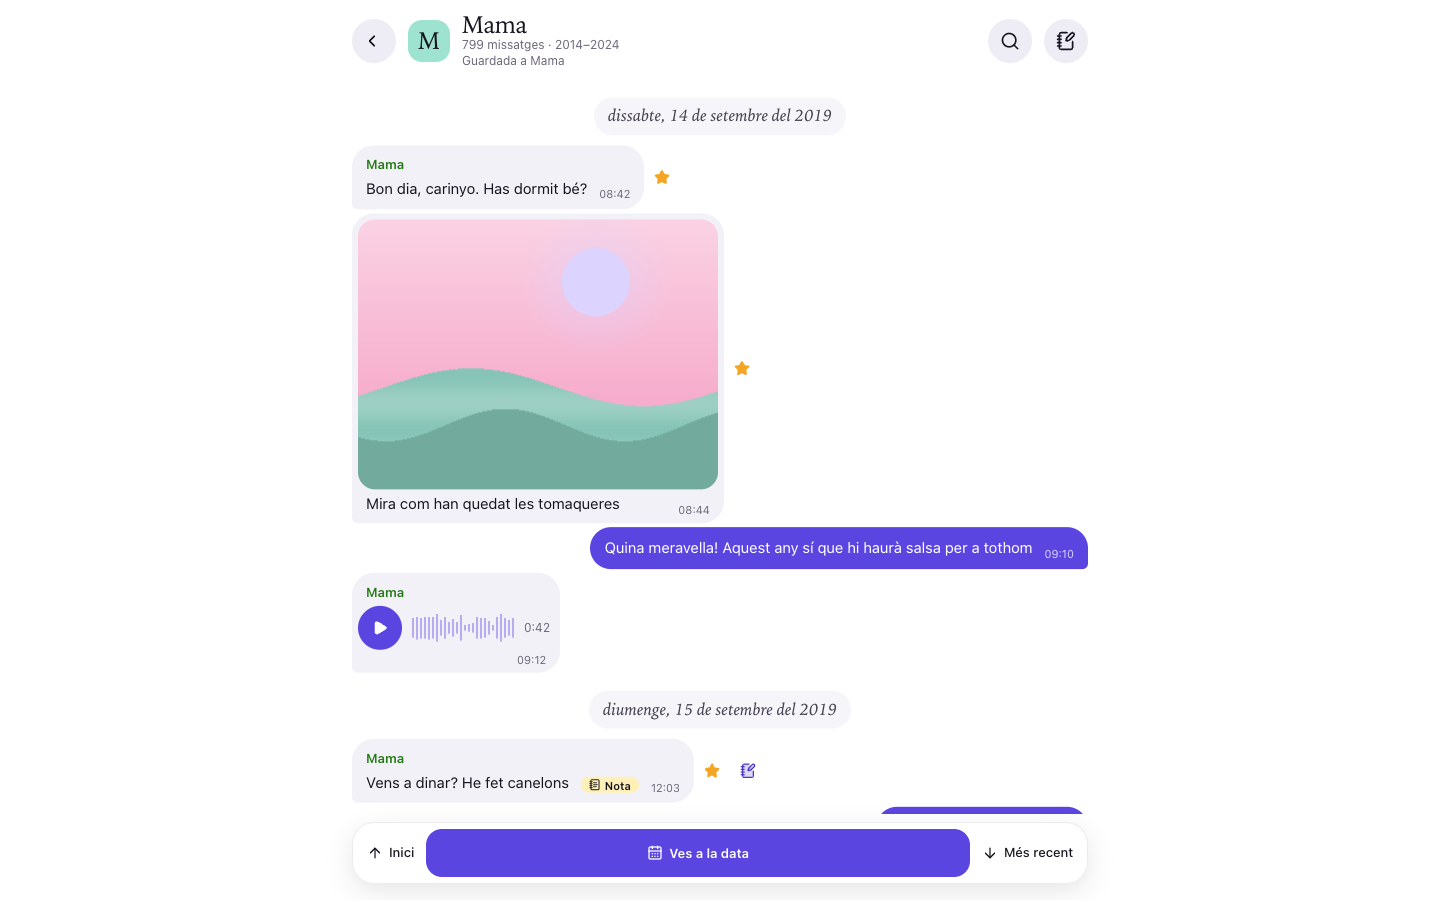
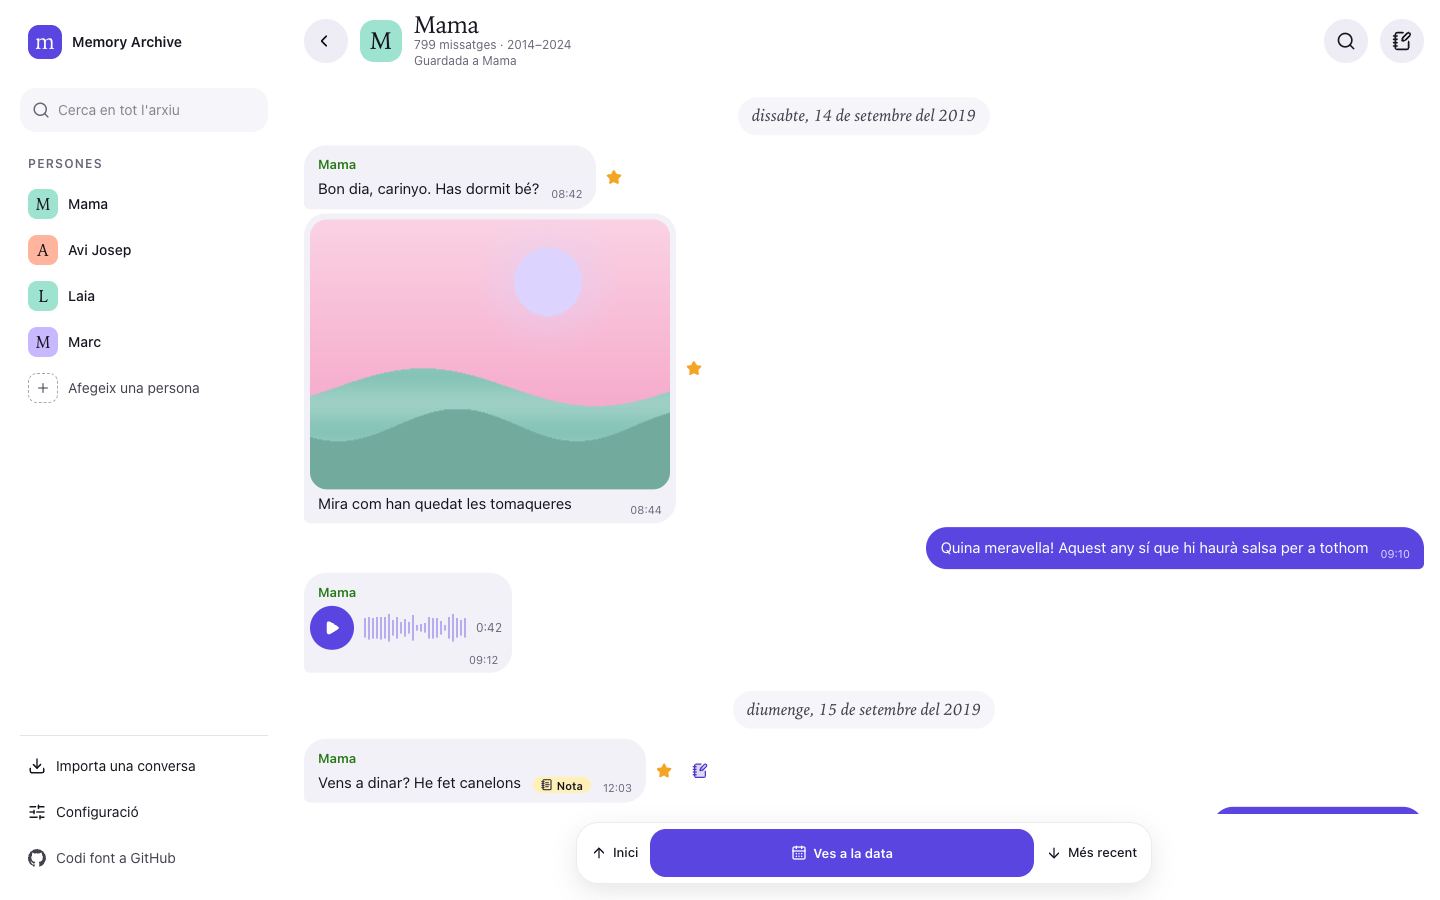
release: v0.4.1 (#65)
Release v0.4.1: full-width desktop layout with the sidebar on every
screen, import history goes back to where it was opened from, and
release commits on main are cleaned of co-author trailers automatically
(#63).

🤖 Generated with [Claude Code](https://claude.com/claude-code)

diff --git a/e2e/history.spec.ts b/e2e/history.spec.ts
@@ -56,7 +56,7 @@ test('the same ZIP twice adds nothing: one entry in the history, and the counts 
   expect(await overflowsHorizontally(page)).toBe(false);
 
   // The same file again, from the history's own way back into the wizard.
-  await page.getByRole('link', { name: 'Back to People' }).click();
+  await page.getByRole('link', { name: 'Back to Import' }).click();
   await importFromPeople(page, exportZip(), 'Mama', 'Finish without adding anything');
   await expect(page.getByText('No new messages were added to Mama.')).toBeVisible();
   await seeHistory(page);
@@ -65,7 +65,8 @@ test('the same ZIP twice adds nothing: one entry in the history, and the counts 
   await expect(entry.getByText('4 new messages added.')).toBeVisible();
 
   // People and the person's page: still one conversation with 4 messages.
-  await page.getByRole('link', { name: 'Back to People' }).click();
+  await page.getByRole('link', { name: 'Back to Import' }).click();
+  await page.goto('/en/people/');
   await expect(page.getByText(/1 conversation/)).toBeVisible();
   await page.getByRole('main').getByRole('link', { name: 'Mama', exact: true }).click();
   await expect(page.getByRole('list', { name: 'Conversations' }).getByRole('listitem')).toHaveCount(1);
@@ -129,7 +130,8 @@ test('undo from the history removes that import: its messages and the conversati
   await expect(page.getByRole('heading', { level: 2, name: 'Nothing has been imported yet' })).toBeVisible();
   await expect(page.getByRole('heading', { level: 1, name: 'Import history' })).toBeFocused();
 
-  await page.getByRole('link', { name: 'Back to People' }).click();
+  await page.getByRole('link', { name: 'Back to Import' }).click();
+  await page.goto('/en/people/');
   await expect(page.getByRole('list', { name: 'People' }).getByText('No conversations yet')).toBeVisible();
 });
 
@@ -140,6 +142,9 @@ test('Catalan: the history and its empty state are in Catalan, and the settings 
   await expect(page.getByRole('heading', { level: 1, name: 'Historial d’importacions' })).toBeVisible();
   await expect(page.getByRole('heading', { level: 2, name: 'Encara no s’ha importat res' })).toBeVisible();
   expect(await overflowsHorizontally(page)).toBe(false);
+  // Opened from Settings, the way back is to Settings.
+  await page.getByRole('link', { name: 'Torna a Configuració' }).click();
+  await expect(page).toHaveURL(/\/ca\/settings\/$/);
 });
 
 // ── Phase 4: closing the tab in the middle of an import leaves the archive intact ─────────────

diff --git a/components/screen-shell.tsx b/components/screen-shell.tsx
@@ -15,7 +15,7 @@ import { isTopLevel } from './nav-items';
  * - Phones and tablets: top-level screens (People, Search, Import, Settings) get the floating tab
  *   bar; a sub-screen passes `back` and gets a back pill instead (`back.label` defaults to "Back").
  * - Desktop (from `lg`): the sidebar on the left for all of them, and the content in a rounded
- *   `sf` panel (max 1040 px).
+ *   `sf` panel that fills the rest of the window.
  * The polite status region lives here, in every state of a screen, so a message set while a form
  * closes is announced by a region that was already on screen.
  */
@@ -42,7 +42,7 @@ export function Shell({
           data-panel
           className={cn(
             'mx-auto flex w-full max-w-3xl flex-col gap-5 px-5 pt-8 sm:px-6 sm:pt-12',
-            'lg:bg-sf lg:mx-0 lg:min-h-[calc(100dvh-2.5rem)] lg:max-w-[1040px] lg:gap-6 lg:rounded-[32px] lg:p-12',
+            'lg:bg-sf lg:mx-0 lg:min-h-[calc(100dvh-2.5rem)] lg:max-w-none lg:gap-6 lg:rounded-[32px] lg:p-12',
             // Room under the content for the floating tab bar.
             focused ? 'pb-0 lg:pb-12' : topLevel ? 'pb-32' : 'pb-16',
           )}
@@ -60,6 +60,19 @@ export function Shell({
         </main>
       </div>
       {topLevel && <TabBar />}
+    </div>
+  );
+}
+
+/**
+ * The frame of a full-height screen with its own scrolling feed (a conversation, a timeline): a
+ * single column on phones, and on desktop the sidebar plus the feed filling the rest of the window.
+ */
+export function FeedShell({ children }: { children: ReactNode }) {
+  return (
+    <div className="lg:flex">
+      <Sidebar />
+      <div className="mx-auto flex h-dvh w-full max-w-3xl min-w-0 flex-col lg:mx-0 lg:max-w-none lg:flex-1">{children}</div>
     </div>
   );
 }

diff --git a/scripts/clean-release-message.test.ts b/scripts/clean-release-message.test.ts
@@ -1,0 +1,35 @@
+import { describe, expect, test } from 'vitest';
+import { cleanReleaseMessage } from './clean-release-message.mjs';
+
+describe('clean-release-message', () => {
+  test('drops the block GitHub appends on a web squash-merge, with its co-authors', () => {
+    const merged = [
+      'release: v0.4.0 (#62)',
+      '',
+      'Release v0.4.0: the app redesign.',
+      '',
+      '---------',
+      '',
+      'Co-authored-by: Someone <someone@example.com>',
+      'Co-authored-by: github-actions[bot] <41898282+github-actions[bot]@users.noreply.github.com>',
+      '',
+    ].join('\n');
+    expect(cleanReleaseMessage(merged)).toBe('release: v0.4.0 (#62)\n\nRelease v0.4.0: the app redesign.\n');
+  });
+
+  test('drops co-author trailers even without the separator, in any case', () => {
+    const msg = 'release: v1.0.0 (#9)\n\nBody.\n\nCo-Authored-By: A <a@example.com>\nco-authored-by: B <b@example.com>\n';
+    expect(cleanReleaseMessage(msg)).toBe('release: v1.0.0 (#9)\n\nBody.\n');
+  });
+
+  test('a clean message comes back unchanged', () => {
+    const msg = 'release: v0.3.0 (#58)\n\nShort body.\n';
+    expect(cleanReleaseMessage(msg)).toBe(msg);
+    expect(cleanReleaseMessage('release: v0.3.0')).toBe('release: v0.3.0\n');
+  });
+
+  test('keeps a dash line that is not exactly the nine-dash separator', () => {
+    const msg = 'release: v0.5.0 (#70)\n\n- a list item\n----\nend\n';
+    expect(cleanReleaseMessage(msg)).toBe(msg);
+  });
+});

diff --git a/components/conversation-screen.tsx b/components/conversation-screen.tsx
@@ -12,7 +12,7 @@ import { PageTitle } from '@/components/page-title';
 import { PersonAvatar } from '@/components/person-avatar';
 import { PillButton } from '@/components/pill-button';
 import { SectionCard } from '@/components/section-card';
-import { Shell } from '@/components/screen-shell';
+import { FeedShell, Shell } from '@/components/screen-shell';
 import { isDateParam, useConversation, type OpenConversation } from '@/hooks/use-conversation';
 import { useLibrary, useLibraryDeps } from '@/hooks/use-library';
 import { Link } from '@/i18n/navigation';
@@ -90,7 +90,7 @@ function ConversationContent({ onRetry }: { onRetry: () => void }) {
   const backLabel = back ? t('back', { name: back.name }) : tn('tabs.people');
 
   return (
-    <div className="mx-auto flex h-dvh w-full max-w-3xl flex-col">
+    <FeedShell>
       <header className="bg-bg z-20 flex shrink-0 flex-wrap items-center gap-3 px-4 pt-[max(0.75rem,env(safe-area-inset-top))] pb-3">
         <BackPill href={backHref} className="size-11 shrink-0 justify-center p-0">
           <span className="sr-only">{backLabel}</span>
@@ -123,7 +123,7 @@ function ConversationContent({ onRetry }: { onRetry: () => void }) {
         <ConversationNote key={view.conversation.id} conversationId={view.conversation.id} />
       </header>
       <ConversationFeed key={view.conversation.id} conversation={conversation} />
-    </div>
+    </FeedShell>
   );
 }
 

diff --git a/components/person-timeline-screen.tsx b/components/person-timeline-screen.tsx
@@ -9,7 +9,7 @@ import { BackPill } from '@/components/back-pill';
 import { Eyebrow } from '@/components/eyebrow';
 import { usePeopleBack, usePersonBack } from '@/components/person-back';
 import { EmptyNote, ErrorNote, LoadingNote, PersonNotFound } from '@/components/screen-states';
-import { Shell } from '@/components/screen-shell';
+import { FeedShell, Shell } from '@/components/screen-shell';
 import { useLibrary, useLibraryDeps } from '@/hooks/use-library';
 import { isDateParam } from '@/hooks/use-conversation';
 import { timelinePositionKey, usePersonTimeline, type OpenTimeline } from '@/hooks/use-person-timeline';
@@ -73,7 +73,7 @@ function PersonTimelineContent() {
   const { person, bounds } = timeline;
   const dates = formatDateRange(bounds.firstSentAt, bounds.lastSentAt, locale);
   return (
-    <div className="mx-auto flex h-dvh w-full max-w-3xl flex-col">
+    <FeedShell>
       <header className="flex shrink-0 flex-col gap-2 px-4 pt-3 pb-2 sm:px-5">
         <BackPill href={personBack.href}>{personBack.label}</BackPill>
         <Eyebrow>{t('eyebrow')}</Eyebrow>
@@ -92,7 +92,7 @@ function PersonTimelineContent() {
       ) : (
         <TimelineFeed key={person.id} timeline={timeline} />
       )}
-    </div>
+    </FeedShell>
   );
 }
 

diff --git a/components/import-history-screen.tsx b/components/import-history-screen.tsx
@@ -91,6 +91,7 @@ function HistoryContent({ person, onRetry, paging }: { person: { id: string; nam
   const tu = useTranslations('import.undo');
   const tl = useTranslations('library');
   const locale = useLocale();
+  const from = useSearchParams().get('from');
   const { state, loadingMore, loadMore } = useImportHistory(person?.id ?? null, paging);
   const actions = useImportActions();
   const [panel, setPanel] = useState<Panel>();
@@ -144,7 +145,12 @@ function HistoryContent({ person, onRetry, paging }: { person: { id: string; nam
       )}
     </div>
   );
-  const back = person ? { href: `/person?id=${encodeURIComponent(person.id)}`, label: t('backPerson', { name: person.name }) } : { href: '/people', label: t('back') };
+  // Back to where the history was opened from: the person, the import tab, or Settings (its home).
+  const back = person
+    ? { href: `/person?id=${encodeURIComponent(person.id)}`, label: t('backPerson', { name: person.name }) }
+    : from === 'import'
+      ? { href: '/import', label: t('backImport') }
+      : { href: '/settings', label: t('back') };
 
   if (state.status === 'loading') {
     return (

diff --git a/components/import-history-screen.test.tsx b/components/import-history-screen.test.tsx
@@ -108,8 +108,15 @@ describe('the import history screen', () => {
     expect(view.container.querySelector('h1')?.textContent).toBe(h.title);
     expect(view.container.querySelector('h2')?.textContent).toBe(h.emptyTitle);
     expect(view.container.querySelector('a[href="/import"]')?.textContent).toBe(h.import);
-    expect(view.container.querySelector('a[href="/people"]')?.textContent).toBe(h.back);
+    expect(view.container.querySelector('a[href="/settings"]')?.textContent).toBe(h.back);
     expect(entries(view)).toHaveLength(0);
+  });
+
+  test('goes back to the import tab when it was opened from there', async () => {
+    view = await open(undefined, 'from=import');
+    const links = [...view.container.querySelectorAll('a[href="/import"]')].map((a) => a.textContent);
+    expect(links).toContain(h.backImport);
+    expect(view.container.querySelector('a[href="/settings"]')).toBeNull();
   });
 
   test('lists the imports newest first with what each one added, where it is kept and when', async () => {

diff --git a/components/conversation-body.tsx b/components/conversation-body.tsx
@@ -214,7 +214,7 @@ export function ConversationBody({ source }: { source: FeedSource }) {
       <div
         role="toolbar"
         aria-label={kind === 'timeline' ? tt('toolbarLabel') : t('toolbarLabel')}
-        className="bg-glass border-glass-line shadow-soft mx-4 mt-2 mb-[max(1rem,env(safe-area-inset-bottom))] grid shrink-0 grid-cols-[auto_minmax(0,1fr)_auto] gap-1 rounded-[22px] border p-1.5 backdrop-blur-[20px] backdrop-saturate-[180%]"
+        className="bg-glass border-glass-line shadow-soft mx-4 mt-2 mb-[max(1rem,env(safe-area-inset-bottom))] grid w-auto sm:mx-auto sm:w-full sm:max-w-xl shrink-0 grid-cols-[auto_minmax(0,1fr)_auto] gap-1 rounded-[22px] border p-1.5 backdrop-blur-[20px] backdrop-saturate-[180%]"
       >
         <button type="button" onClick={list.scrollToStart} className={`${toolButton} hover:bg-sf2 text-foreground`}>
           <ArrowUp aria-hidden />

diff --git a/components/import-screen.test.tsx b/components/import-screen.test.tsx
@@ -130,7 +130,7 @@ describe('the import wizard', () => {
       expect(text(view)).toContain(m.choose.empty);
       expect(buttonNamed(view, /^Continue with/)?.getAttribute('aria-disabled')).toBe('true');
       expect(view.container.querySelector('a[href="/people"]')?.textContent).toBe(m.backToPeople);
-      expect(view.container.querySelector('a[href="/import/history"]')?.textContent).toBe(m.historyLink);
+      expect(view.container.querySelector('a[href="/import/history?from=import"]')?.textContent).toBe(m.historyLink);
     });
 
     test('lists the ZIPs it is given, leaves other files out and says so, and can remove one', async () => {

diff --git a/components/import-choose.tsx b/components/import-choose.tsx
@@ -62,7 +62,7 @@ export function ImportChoose({
         </h1>
         <p className="text-mu leading-relaxed">{t('intro')}</p>
         <Link
-          href="/import/history"
+          href="/import/history?from=import"
           className="text-ac-tx focus-visible:ring-ring/50 flex min-h-11 w-fit items-center rounded-full px-2 text-sm font-medium underline underline-offset-4 outline-none focus-visible:ring-[3px]"
         >
           {t('historyLink')}

diff --git a/components/import-run.tsx b/components/import-run.tsx
@@ -185,7 +185,7 @@ export function ImportDone({
           <Link href="/people">{t('people')}</Link>
         </PillButton>
         <PillButton variant="outlined" asChild>
-          <Link href="/import/history">{t('history')}</Link>
+          <Link href="/import/history?from=import">{t('history')}</Link>
         </PillButton>
       </div>
     </div>

diff --git a/lib/exporters/legacy/version.ts b/lib/exporters/legacy/version.ts
@@ -4,7 +4,7 @@
  * import `package.json`; a test keeps the version in sync with it.
  */
 export const GENERATOR_NAME = 'memory-archive';
-export const GENERATOR_VERSION = '0.4.0';
+export const GENERATOR_VERSION = '0.4.1';
 
 /**
  * Version of the legacy JSON envelope (docs/formats/legacy-json.md).
